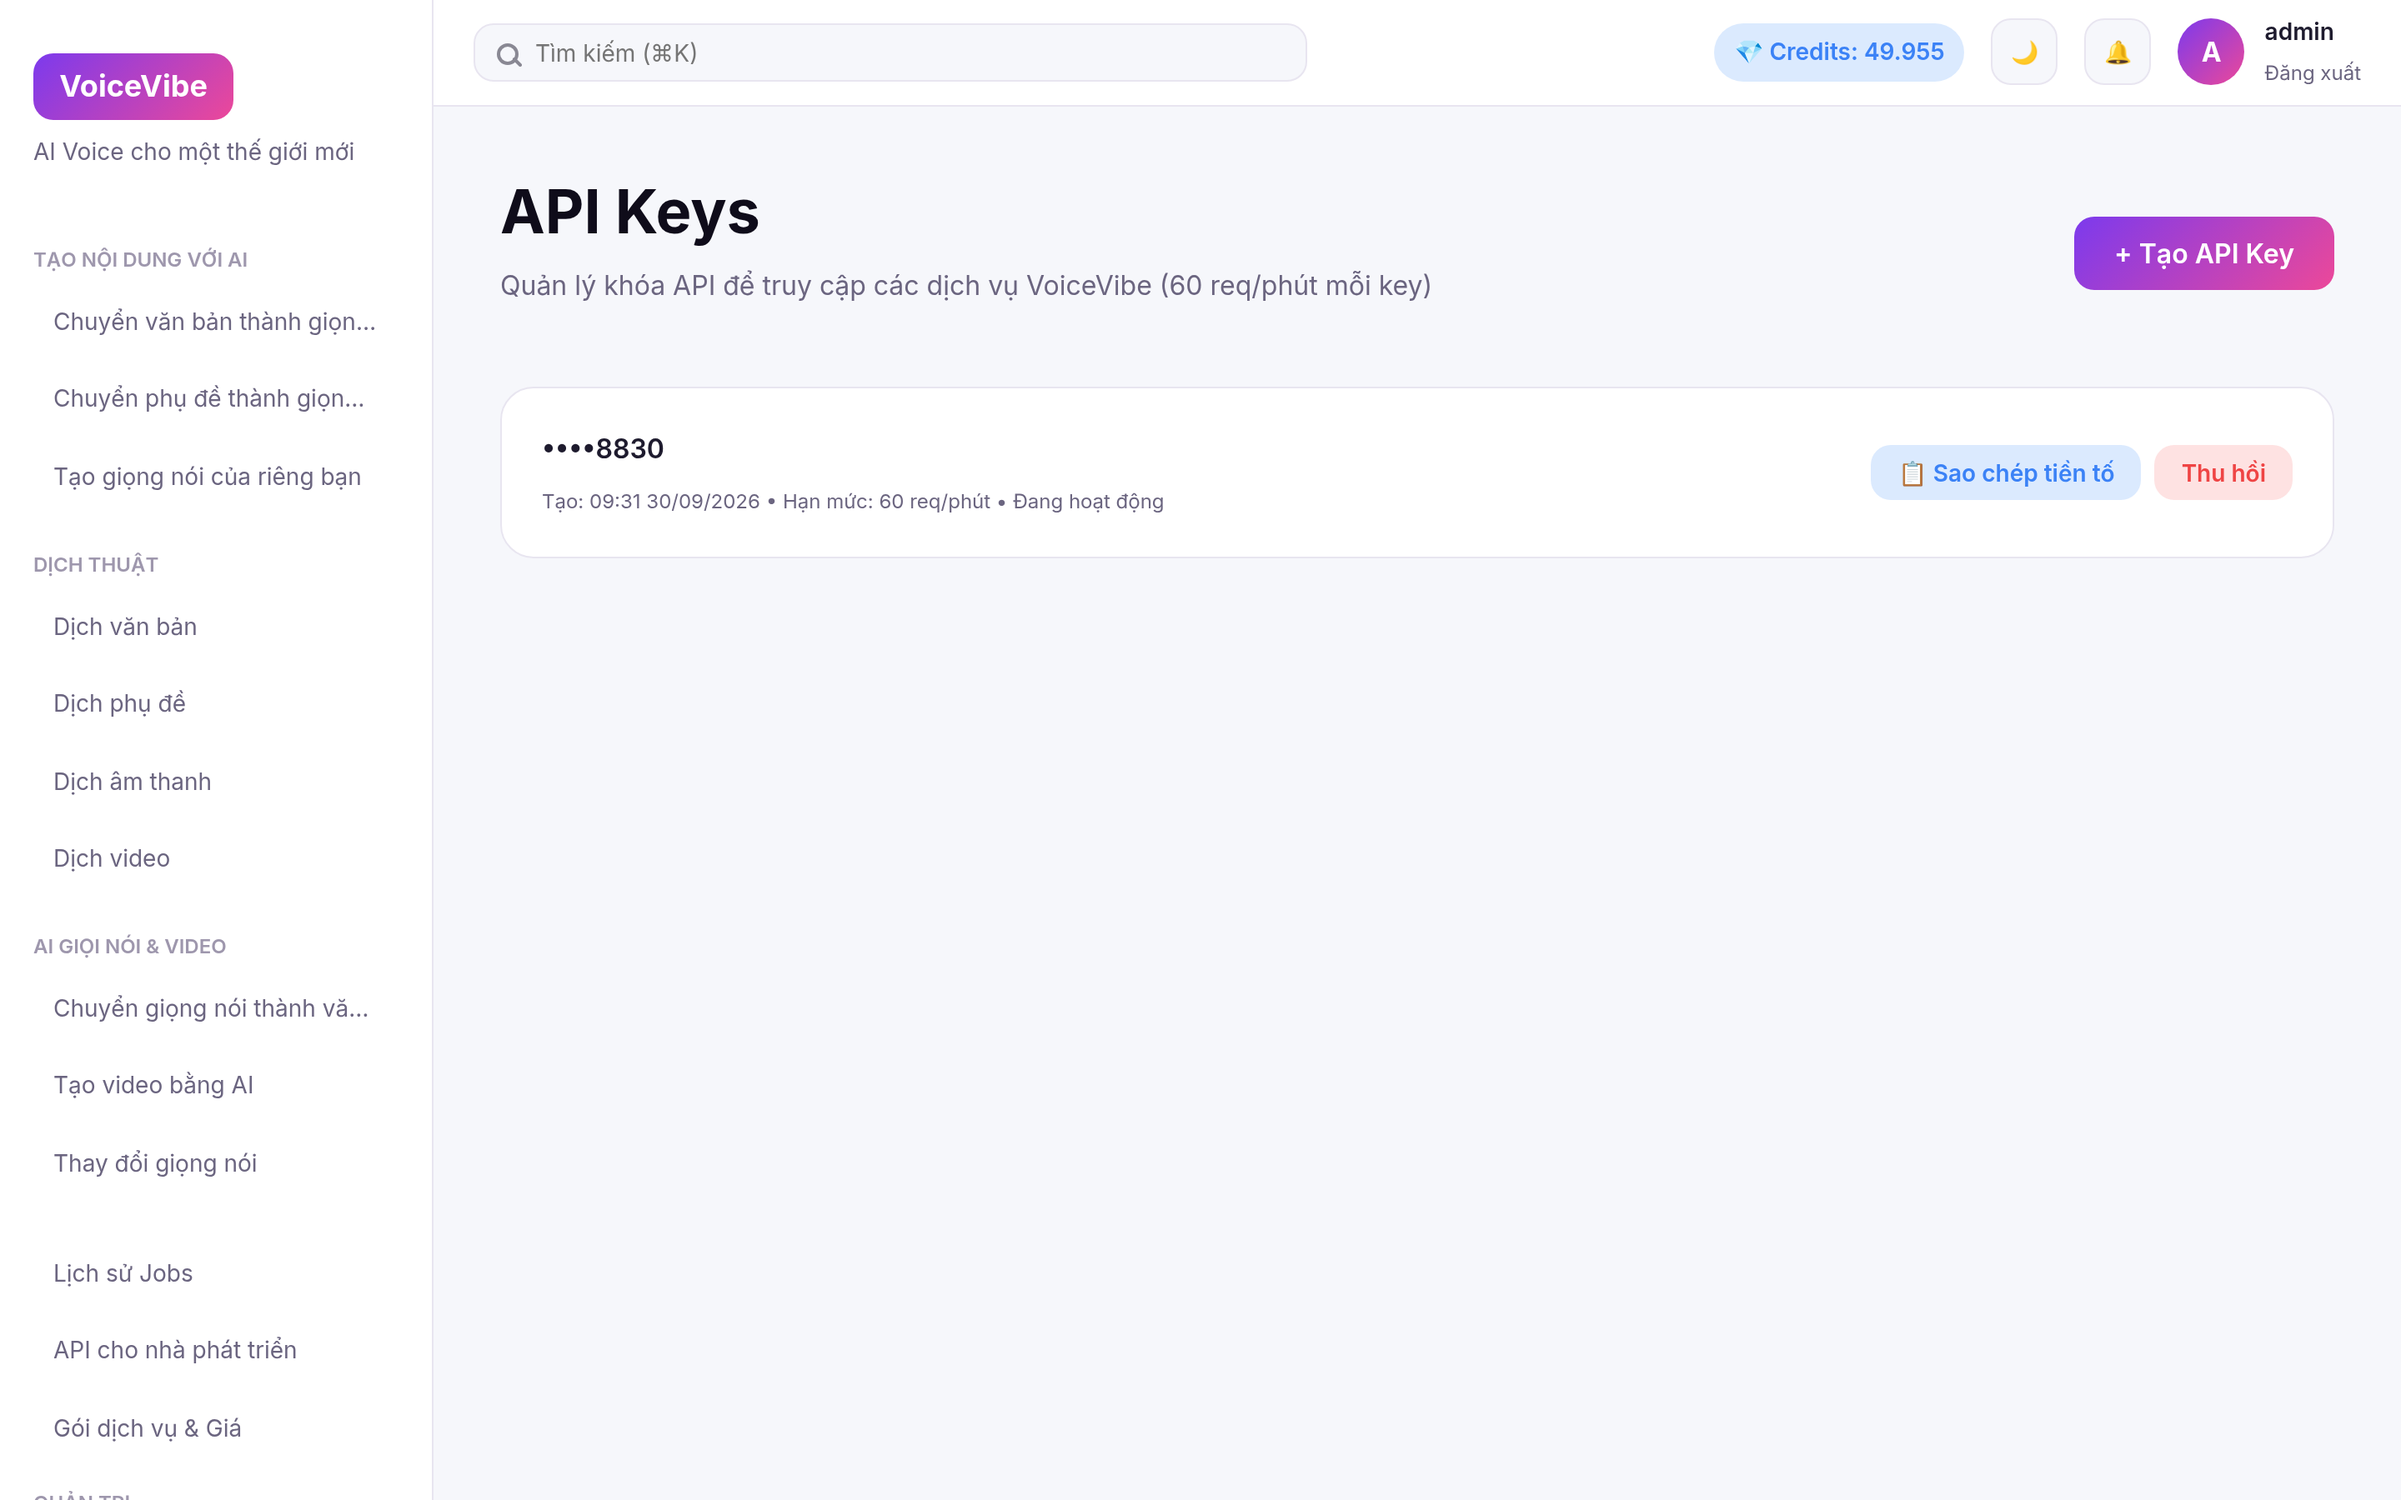
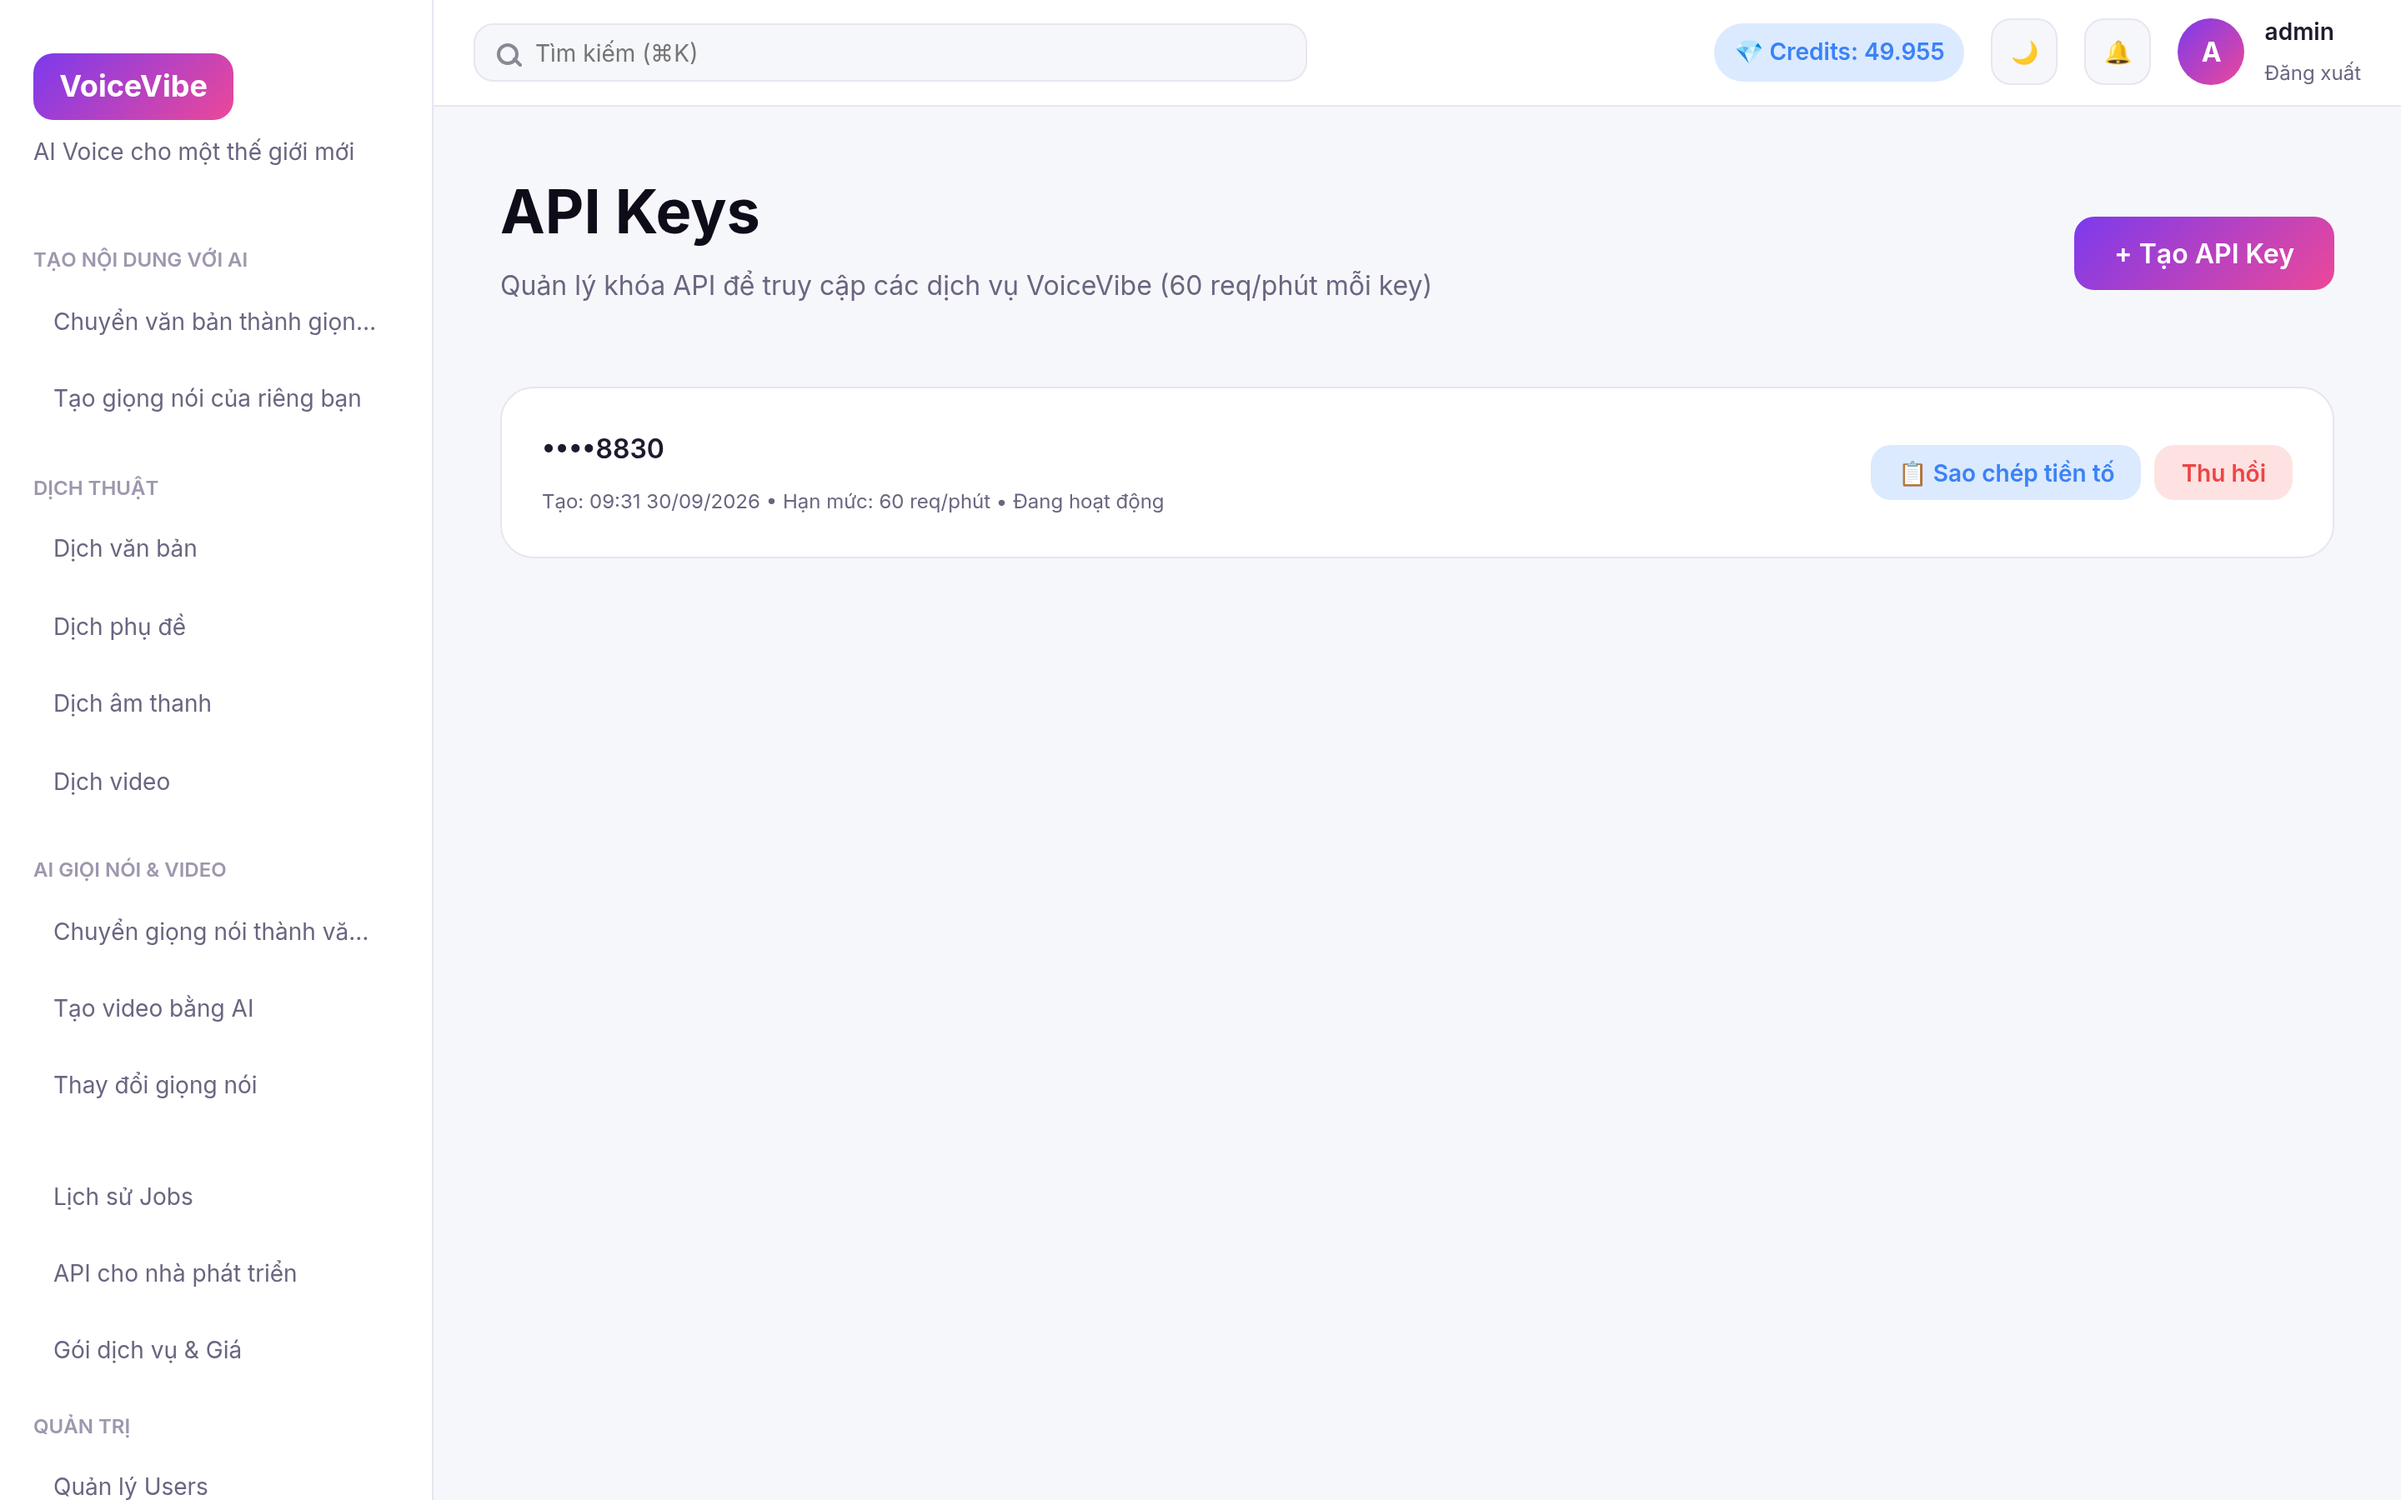
fix(spa): bỏ mục menu chết 'Chuyển phụ đề thành giọng nói'
Lỗi user báo: mục 'Chuyển phụ đề thành giọng nói' ở sidebar không bấm
được, và về bản chất chỉ là TTS nạp từ file phụ đề.

Nguyên nhân: mục là placeholder '#' từ bản mock — backend chỉ có 5 loại
job (tts/stt/translate/dub/subtitle), KHÔNG có pipeline phụ-đề→giọng-nói
(dub tự chạy STT→dịch→TTS, không nhận SRT có sẵn). Giữ lại chỉ tạo
link chết.

Sửa: bỏ mục khỏi Sidebar.jsx, chú thích ghi rõ lý do + số loại job.
Giữ nguyên 4 placeholder '#' khác để chờ quyết định riêng (2 mục có
backend hỗ trợ type=translate nhưng chưa có trang, 2 mục chưa có gì).

Kiểm chứng: sidebar còn đúng 16 link, không còn link '#' ở nhóm
'TẠO NỘI DUNG VỚI AI'; spa_shot lại 14 ảnh — 'SPA SHOTS PASSED — no
page errors', 0 trùng md5; build 343.28 kB JS.

Ảnh: docs/screenshots-spa.

🤖 Generated with [Claude Code](https://claude.com/claude-code)

diff --git a/frontend/src/components/Sidebar.jsx b/frontend/src/components/Sidebar.jsx
@@ -11,9 +11,9 @@ const navigation = [
       // LƯU Ý: bản mock từng có thêm mục "TTS Studio" cũng trỏ /tts — hai mục
       // cùng một trang nên bấm vào đâu cũng sáng cả hai. Hệ thống chỉ có MỘT
       // tính năng TTS, mục thừa đã bỏ.
-      // Chưa có pipeline phụ-đề→giọng-nói: để '#' (hạng mục bị khoá) thay vì
-      // trỏ /dub — bản mock trỏ bừa khiến highlight nhầm trên /dub.
-      { label: 'Chuyển phụ đề thành giọng nói', to: '#' },
+      // Mục "Chuyển phụ đề thành giọng nói" của mock cũng đã bỏ: backend chỉ
+      // có 5 loại job (tts/stt/translate/dub/subtitle), KHÔNG có pipeline
+      // phụ-đề→giọng-nói — giữ lại chỉ tạo link chết bấm không ăn.
       { label: 'Tạo giọng nói của riêng bạn', to: '/voices' },
     ],
   },
